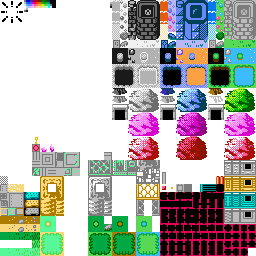
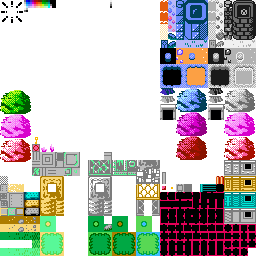
random pal at level complete

Changed region(s): [[0.4375, 0.0, 0.625, 0.625], [0.8125, 0.0, 1.0, 0.4375], [0.0, 0.3438, 0.125, 0.6562]]

diff --git a/index.html b/index.html
@@ -39,10 +39,11 @@
     var roomDrawX = 0;
     var currLvl;
     var prevLvl;
-    var spriteSet = 12;
+    var spriteSet = 0;
     var bannerCounter = 0;
     var palette = false;
     var rendScreen;
+    var imgData;
     
     var spriteSheet = new Image();	//Sheet of sprite images
 	spriteSheet.src = 'assets/char_sheet.png';
@@ -55,9 +56,10 @@
     var pal_g = [[241,241,241,255],[88,216,84,255],[0,88,0,255],[26,26,26,255]];
     var pal_r = [[241,241,241,255],[252,160,68,255],[228,92,16,255],[26,26,26,255]];
     var pal_b = [[241,241,241,255],[104,136,252,255],[0,64,88,255],[26,26,26,255]];
-    var pal_gr = [[88,216,84,255],[0,168,68,255],[188,188,188,255],[124,124,124,255]];
     
-    currPal = pal_gr;
+    var pals = [pal_0,pal_g,pal_r,pal_b];
+    
+    currPal = pals[0];
     
     //initiate canvas
 	var canvas = document.getElementById("myCanvas");
@@ -619,14 +621,8 @@
                             if (player.x <= (this.loc.x)+4 && player.x > (this.loc.x)-4 && player.y <= (this.loc.y)+4 && player.y > (this.loc.y)-4 
                                 && (player.keys.length >= this.diff)) {
                                 lvlComplete = true;
-								var rand = Math.floor(Math.random()*5) 
-								if (rand == 0) {
-									spriteSet = 6;
-								}else if (rand == 1) {
-									spriteSet = 12;
-								}else {
-									spriteSet = 0;
-								}
+								var rand = Math.floor(Math.random()*pals.length); 
+								currPal = pals[rand];
 								
                                 player.curse = player.curse*(.25);
                                 console.log(lvlComplete);
@@ -1830,48 +1826,42 @@
                 }
             }
             
-            
-            if (palette == true) {
-                paletteCounter = 0;
-                var imgData = ctx.getImageData(0,0,screenWidth,(screenHeight-16));
-                var origData = [];
-                var row = [];
-                for(var i = 0, l = imgData.data.length; i < l; i += 4) {
-                    if (imgData.data[i+3] > 0) {
-                        if (imgData.data[i] == pal_0[0][0] && imgData.data[i+1] == pal_0[0][1] &&
-                            imgData.data[i+2] == pal_0[0][2]) {
-                        
-                            imgData.data[i] = currPal[0][0];
-                            imgData.data[i+1] = currPal[0][1];
-                            imgData.data[i+2] = currPal[0][2];
-                        }
-                        if (imgData.data[i] == pal_0[1][0] && imgData.data[i+1] == pal_0[1][1] &&
-                            imgData.data[i+2] == pal_0[1][2]) {
-                        
-                            imgData.data[i] = currPal[1][0];
-                            imgData.data[i+1] = currPal[1][1];
-                            imgData.data[i+2] = currPal[1][2];
-                        }
-                        if (imgData.data[i] == pal_0[2][0] && imgData.data[i+1] == pal_0[2][1] &&
-                            imgData.data[i+2] == pal_0[2][2]) {
-                        
-                            imgData.data[i] = currPal[2][0];
-                            imgData.data[i+1] = currPal[2][1];
-                            imgData.data[i+2] = currPal[2][2];
-                        }
-                        if (imgData.data[i] == pal_0[3][0] && imgData.data[i+1] == pal_0[3][1] &&
-                            imgData.data[i+2] == pal_0[3][2]) {
-                        
-                            imgData.data[i] = currPal[3][0];
-                            imgData.data[i+1] = currPal[3][1];
-                            imgData.data[i+2] = currPal[3][2];
-                        }
+                
+            imgData = ctx.getImageData(0,0,screenWidth,(screenHeight-16));
+            for(var i = 0, l = imgData.data.length; i < l; i += 4) {
+                if (imgData.data[i+3] > 0) {
+                    if (imgData.data[i] == pal_0[0][0] && imgData.data[i+1] == pal_0[0][1] &&
+                        imgData.data[i+2] == pal_0[0][2]) {
+                    
+                        imgData.data[i] = currPal[0][0];
+                        imgData.data[i+1] = currPal[0][1];
+                        imgData.data[i+2] = currPal[0][2];
                     }
+                    if (imgData.data[i] == pal_0[1][0] && imgData.data[i+1] == pal_0[1][1] &&
+                        imgData.data[i+2] == pal_0[1][2]) {
                     
+                        imgData.data[i] = currPal[1][0];
+                        imgData.data[i+1] = currPal[1][1];
+                        imgData.data[i+2] = currPal[1][2];
+                    }
+                    if (imgData.data[i] == pal_0[2][0] && imgData.data[i+1] == pal_0[2][1] &&
+                        imgData.data[i+2] == pal_0[2][2]) {
                     
-                }
-                ctx.putImageData(imgData, 0, 0);
+                        imgData.data[i] = currPal[2][0];
+                        imgData.data[i+1] = currPal[2][1];
+                        imgData.data[i+2] = currPal[2][2];
+                    }
+                    if (imgData.data[i] == pal_0[3][0] && imgData.data[i+1] == pal_0[3][1] &&
+                        imgData.data[i+2] == pal_0[3][2]) {
+                    
+                        imgData.data[i] = currPal[3][0];
+                        imgData.data[i+1] = currPal[3][1];
+                        imgData.data[i+2] = currPal[3][2];
+                    }
+                }   
             }
+            ctx.putImageData(imgData, 0, 0);
+            
             
         } else {
 			//render game over screen
